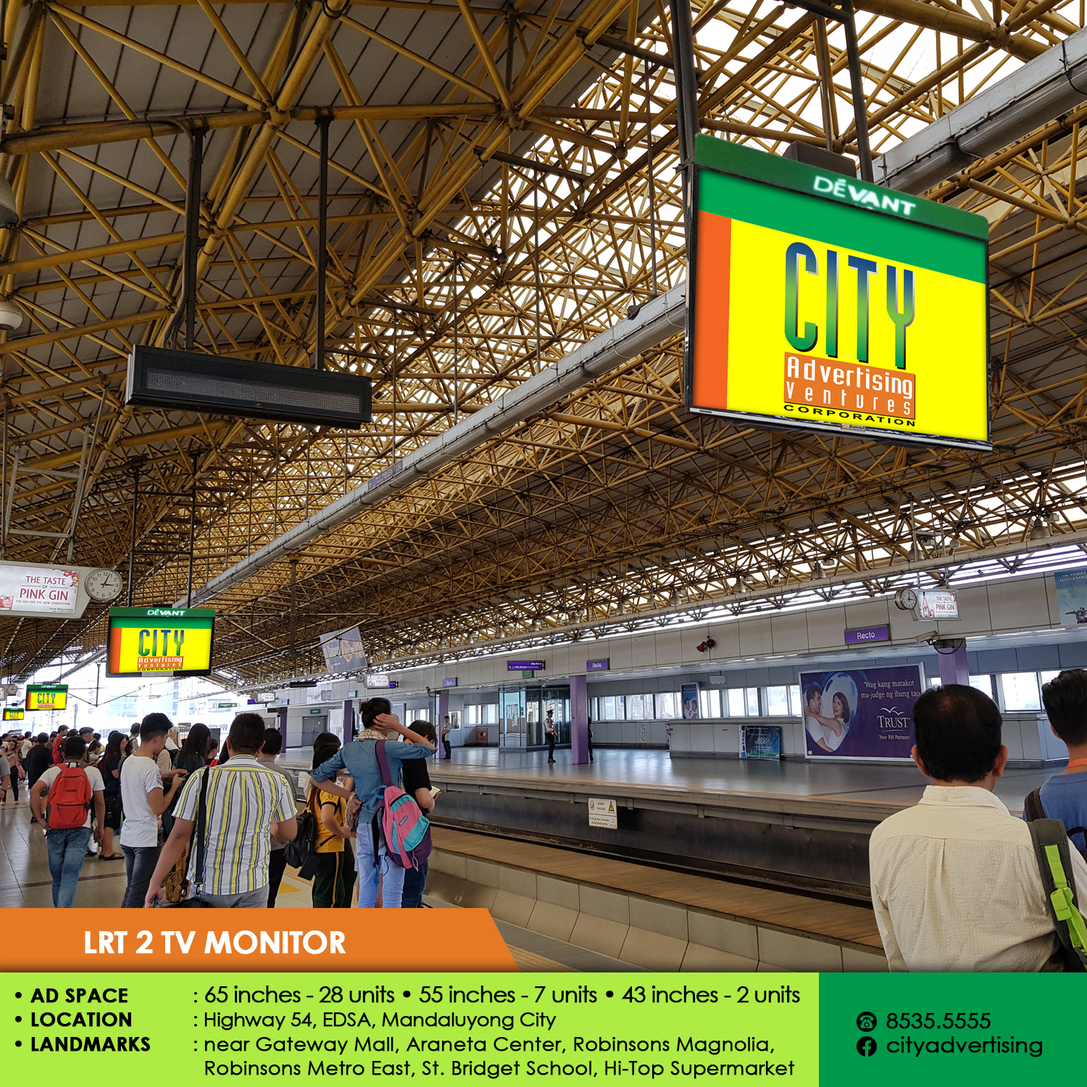
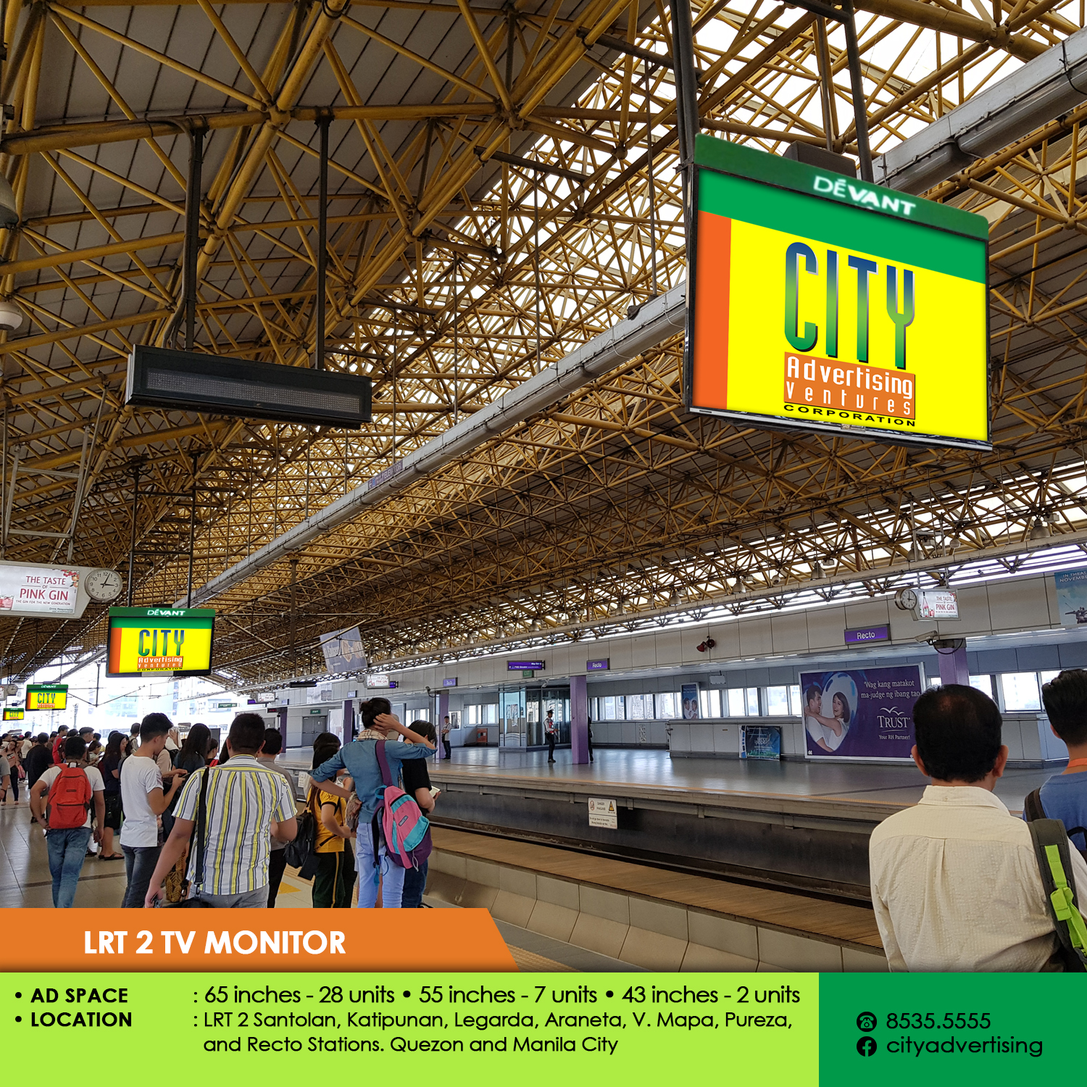
Update for request 5,6,7,8,9,10

Changed region(s): [[0.184, 0.92, 0.736, 1.0], [0.0307, 0.9507, 0.1533, 0.9813]]

diff --git a/src/components/ServicesData.js b/src/components/ServicesData.js
@@ -102,7 +102,6 @@ const ledImages = import.meta.glob([
   '/images/services/leds/04_FB Page1_EDSA Cubao LED SB_photo.webp',
   '/images/services/leds/07_FB Page1_LRT TV Monitor_photo.webp',
   '/images/services/leds/08_FB Page1_Baguio LED billboard_photo.webp',
-  '/images/services/leds/FB Page1_EDSA Buendia Gantry NB_photo.webp',
   '/images/services/leds/FB Page1_EDSA Buendia Gantry SB_photo.webp',
   '/images/services/leds/FB Page1_EDSA Gantry generic_photo.webp',
   '/images/services/leds/FB Page1_EDSA Guadix Gantry NB_photo.webp',
@@ -230,6 +229,8 @@ const billboardImages = import.meta.glob([
   '/images/services/billboards/Footbridge_Welcome Rotunda_Face B_photo.webp',
   '/images/services/billboards/Footbridge_Welcome Rotunda_Face C_photo.webp',
   '/images/services/billboards/Footbridge_Welcome Rotunda_Face E_photo.webp',
+  '/images/services/billboards/Footbridge_EDSA Caloocan_Face A_photo.webp',
+  '/images/services/billboards/Footbridge_EDSA Caloocan_Face B_photo.webp',
   '/images/services/billboards/ZBacoor POB_D_photo.webp',
   '/images/services/billboards/ZBacoor waiting shed_A_photo.webp',
   '/images/services/billboards/ZBacoor waiting shed_B_photo.webp',
@@ -416,7 +417,7 @@ export const serviceData = [
         modalDescription: 'C5 TAGUIG BILLBOARD',
         modalDetails: {
           'Ad Size': '60ft(w) x 40ft(h) *north bound',
-          'Location': 'Service Road, C5, Makati City',
+          'Location': 'Service Road, C5, Pembo, Taguig City',
           'Landmarks': 'across Market! Market!, near BGC, Treston College, SM Aura',
         },
       },
@@ -426,7 +427,7 @@ export const serviceData = [
         modalDescription: 'C5 TAGUIG BILLBOARD',
         modalDetails: {
           'Ad Size': '60ft(w) x 40ft(h) *south bound',
-          'Location': 'Service Road, C5, Makati City',
+          'Location': 'Service Road, C5, Pembo, Taguig City',
           'Landmarks': 'across Market! Market!, near BGC, Treston College, SM Aura',
         },
       },
@@ -1139,7 +1140,6 @@ export const serviceData = [
         webp: billboardImages['/images/services/billboards/Footbridge_Welcome Rotunda_Face B_photo.webp'] || '/images/services/billboards/Footbridge_Welcome Rotunda_Face B_photo.webp',
         jpg: '/images/services/billboards/Footbridge_Welcome Rotunda_Face B.jpg',
         modalDescription: 'WELCOME ROTUNDA FOOTBRIDGE AD',
-       
         modalDetails: {
           'Ad Size': 'Face B: 28ft(w) x 13ft(h) *from España towards G. Araneta',
           'Location': 'Welcome Rotunda, Quezon City',
@@ -1167,6 +1167,28 @@ export const serviceData = [
           'Location': 'Welcome Rotunda, Quezon City',
           'Landmarks': 'near SMDC Sun Residences, Southeast Asian College',
           'Traffic Count': '102,500 per day',
+        },
+      },
+      {
+        webp: billboardImages['/images/services/billboards/Footbridge_EDSA Caloocan_Face A_photo.webp'] || '/images/services/billboards/Footbridge_EDSA Caloocan_Face A_photo.webp',
+        jpg: '/images/services/billboards/Footbridge_EDSA Caloocan_Face A.jpg',
+        modalDescription: 'EDSA CALOOCAN FOOTBRIDGE AD',
+        modalDetails: {
+          'Ad Size': 'Face A: Approx 40ft(w) x 10ft(h) *from Monumento to Cubao',
+          'Location': 'EDSA near corner General Tinio Street, Caloocan City',
+          'Landmarks': 'Shell Station, UniOil, Mang Inasal',
+          'Traffic Count': '250,000 per day',
+        },
+      },
+      {
+        webp: billboardImages['/images/services/billboards/Footbridge_EDSA Caloocan_Face B_photo.webp'] || '/images/services/billboards/Footbridge_EDSA Caloocan_Face B_photo.webp',
+        jpg: '/images/services/billboards/Footbridge_EDSA Caloocan_Face B.jpg',
+        modalDescription: 'EDSA CALOOCAN FOOTBRIDGE AD',
+        modalDetails: {
+          'Ad Size': 'Face B: 35ft(w) x 12ft(h) *from Cubao towards Monumento',
+          'Location': 'EDSA near corner General Tinio, Caloocan City',
+          'Landmarks': 'near Yamaha, Shell and Manila Central University',
+          'Traffic Count': '427,000 per day',
         },
       },
       {
@@ -1249,7 +1271,7 @@ export const serviceData = [
         modalDescription: 'EDSA CUBAO LED BILLBOARD - NB',
         modalDetails: {
           'Ad Size': '17m(w) x 4m(h)',
-          'Location': 'EDSA Araneta Cubao (Araneta City Footbridge) *Northbound',
+          'Location': 'EDSA Araneta Cubao, Quezon City (Araneta City Footbridge) *Northbound',
           'Landmarks': 'near Araneta Coliseum, Farmer\'s Plaza, Philtranco, MRT Araneta-Cubao Station',
         },
       },
@@ -1259,7 +1281,7 @@ export const serviceData = [
         modalDescription: 'EDSA CUBAO LED BILLBOARD - SB',
         modalDetails: {
           'Ad Size': '11m(w) x 4m(h)',
-          'Location': 'EDSA Araneta Cubao (Farmer\'s Footbridge) *Southbound',
+          'Location': 'EDSA Araneta Cubao, Quezon City (Farmer\'s Footbridge) *Southbound',
           'Landmarks': 'near Araneta Coliseum, Farmer\'s Plaza, Philtranco, MRT Araneta-Cubao Station',
         },
       },
@@ -1268,9 +1290,8 @@ export const serviceData = [
         jpg: '/images/services/leds/07_FB Page1_LRT TV Monitor.jpg',
         modalDescription: 'LRT 2 TV MONITOR',
         modalDetails: {
-          'Ad Size': '65inches-28 units | 55 inches-7 units | 43 inches-2 units',
-          'Location': 'Highway 54, EDSA, Mandaluyong City',
-          'Landmarks': 'near Gateway Mall, Araneta Center Cubao, Robinsons Magnolia, Robinsons Metro East, St. Bridget School, Hi-Top Supermarket',
+          'Ad Size': '65 inches - 28 units, 55 inches - 7 units, 43 inches - 2 units',
+          'Location': 'LRT 2 Santolan, Katipunan, Legarda, Araneta, V. Mapa, Pureza, and Recto Stations. Quezon and Manila City',
         },
       },
       {
@@ -1281,16 +1302,6 @@ export const serviceData = [
           'Ad Size': '5m(w) x 6m(h) 308px(w) 368px(h)',
           'Location': 'City Center Hotel, Session Road corner Mabini Street, Baguio City',
           'Landmarks': 'near Burnnham Park, Baguio Night Market, Maharlika Livelihood Center',
-        },
-      },
-      {
-        webp: ledImages['/images/services/leds/FB Page1_EDSA Buendia Gantry NB_photo.webp'] || '/images/services/leds/FB Page1_EDSA Buendia Gantry NB_photo.webp',
-        jpg: '/images/services/leds/FB Page1_EDSA Buendia Gantry NB.jpg',
-        modalDescription: 'EDSA BUENDIA LED GANTRY',
-        modalDetails: {
-          'Ad Size': '40.288ft(w) x 6.719ft(h)',
-          'Location': 'EDSA Buendia, Makati City *Northbound',
-          'Landmarks': 'near Kalayaan Avenue approaching Buendia Avenue',
         },
       },
       {
@@ -1316,7 +1327,7 @@ export const serviceData = [
       {
         webp: ledImages['/images/services/leds/FB Page1_EDSA Guadix Gantry NB_photo.webp'] || '/images/services/leds/FB Page1_EDSA Guadix Gantry NB_photo.webp',
         jpg: '/images/services/leds/FB Page1_EDSA Guadix Gantry NB.jpg',
-        modalDescription: 'EDSA GUADIZ LED GANTRY',
+        modalDescription: 'EDSA GUADIX LED GANTRY',
         modalDetails: {
           'Ad Size': '39.37ft(w) x 8.86ft(h)',
           'Location': 'EDSA, Mandaluyong City *Northbound',

diff --git a/src/components/About.jsx b/src/components/About.jsx
@@ -7,7 +7,7 @@ const whyChooseUsData = [
   {
     icon: Award,
     title: '20+ Years of Expertise',
-    description: 'We do things faster, more accurate and cost-effective.'
+    description: 'Delivering reliable solutions built on decades of knowledge, experience, and proven results.'
   },
   {
     icon: Users,
